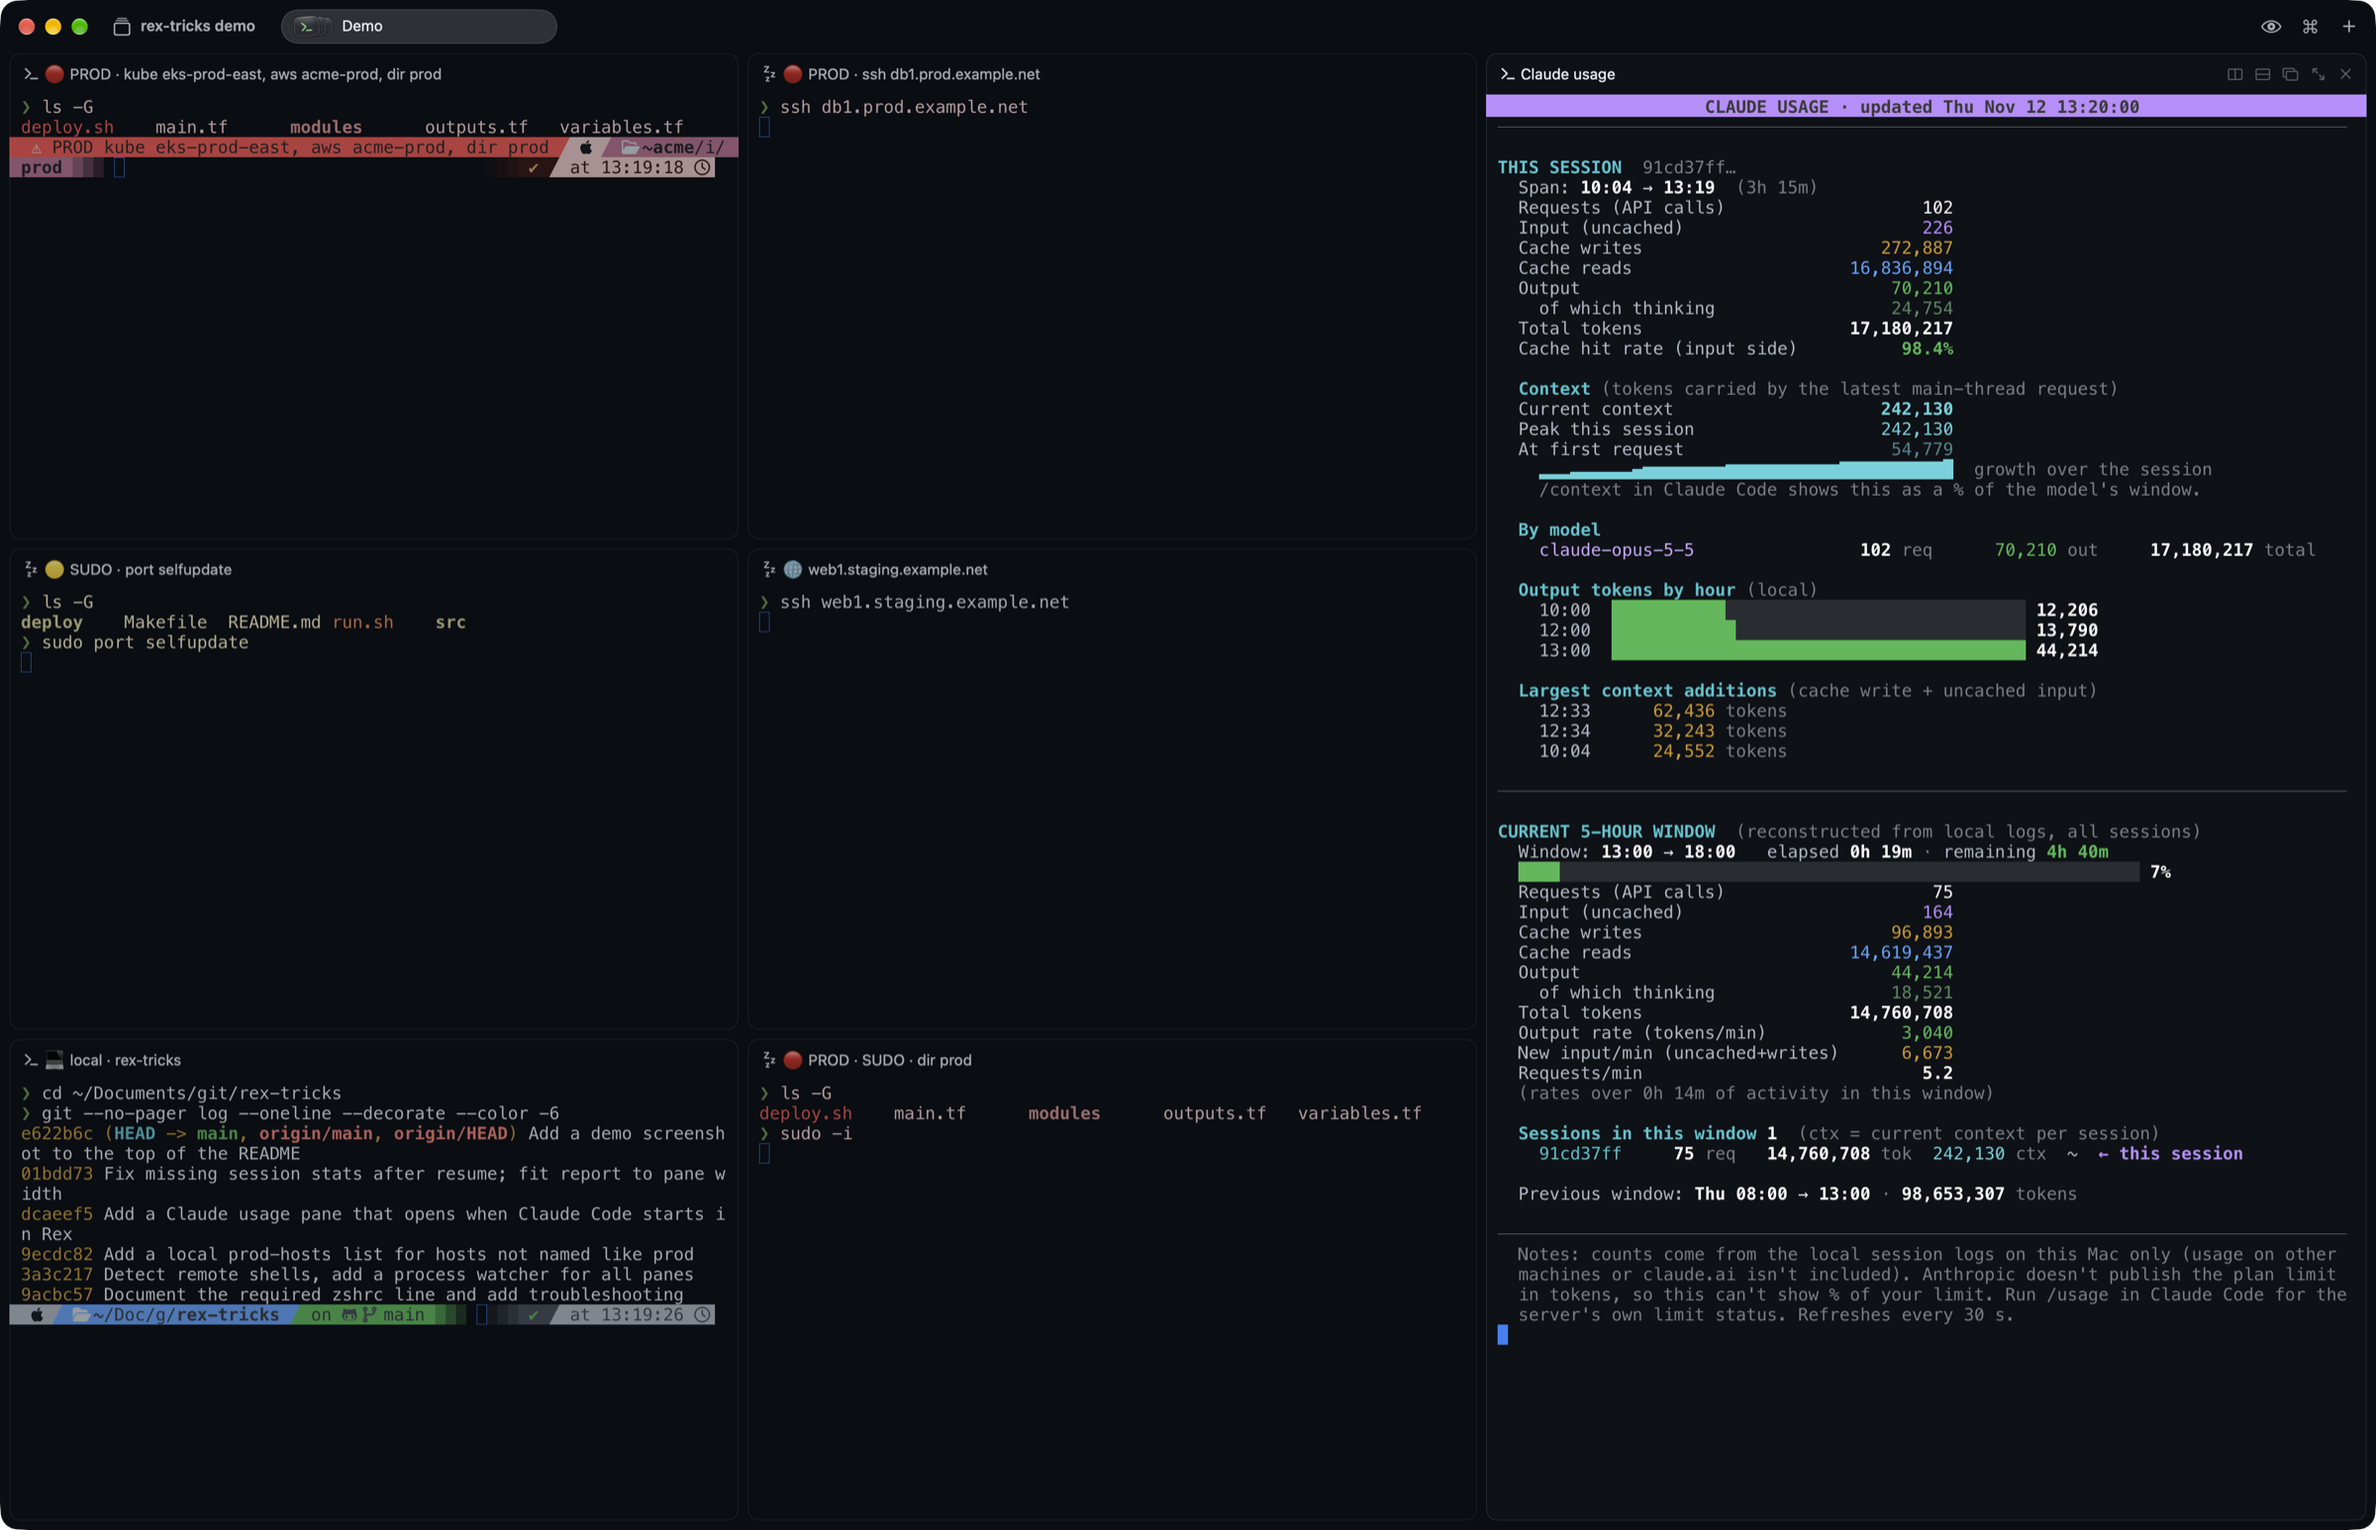
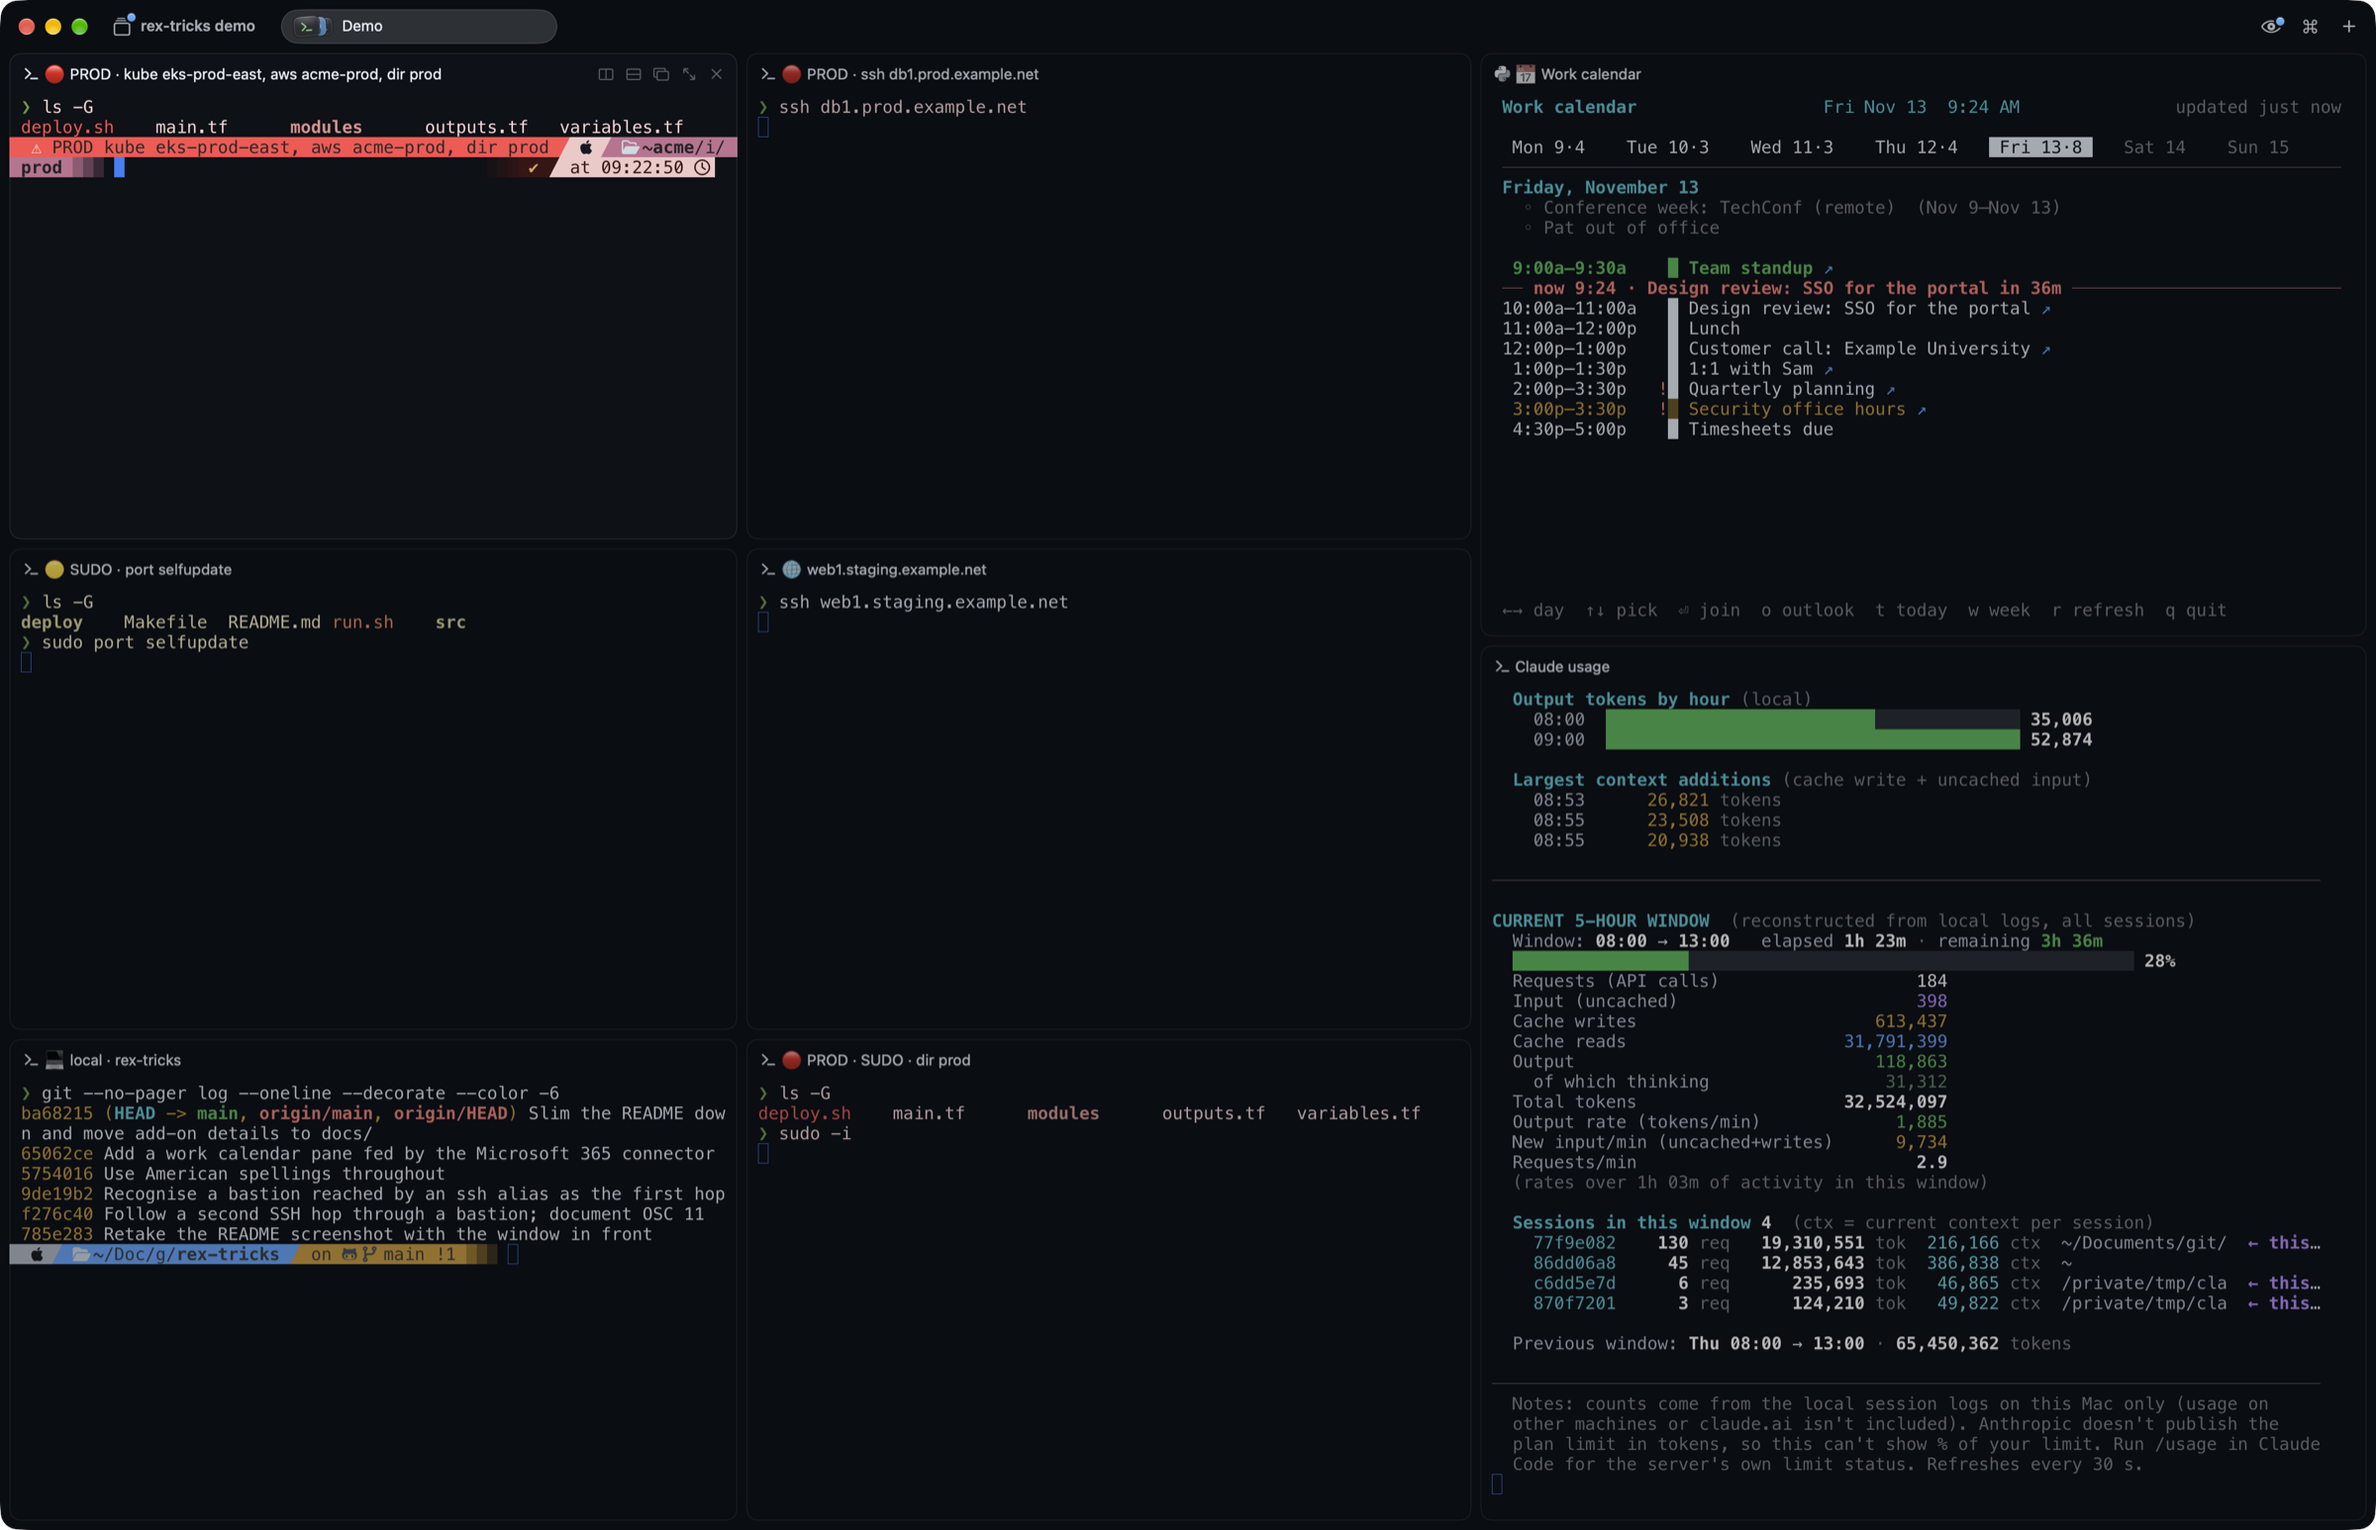
Retake the demo screenshot with the work calendar pane
The right-hand column now shows the work calendar above the Claude usage
pane, as the SessionStart hook arranges them. The calendar runs with a new
--demo option that shows made-up meetings and never fetches, so no real
calendar data ends up in the public screenshot.

diff --git a/work-calendar/workcal.py b/work-calendar/workcal.py
@@ -5,6 +5,7 @@ Usage:
   workcal.py                     interactive calendar (curses)
   workcal.py --fetch [MONDAY]    fetch one week (default: this week), print the events as JSON
   workcal.py --agenda [DATE]     print one day's agenda as plain text and exit
+  workcal.py --demo              interactive calendar with made-up events (no fetching), for screenshots
 
 No program outside Claude can call a claude.ai connector, so a fetch runs a headless
 `claude -p`. That run can use only the connector's outlook_calendar_search tool (all
@@ -268,6 +269,44 @@ def print_agenda(day):
         print(f"  {(hm(e['s']) + '–' + hm(e['e']).strip()):<14} {MARK.get(e['showAs'], ' ')} {e['subject']}{x}")
 
 
+
+# ---------------------------------------------------------------- demo data
+
+DEMO = False
+
+# (weekday, start, minutes, subject, showAs, link?) — made-up events for screenshots.
+DEMO_EVENTS = [
+    (0, "09:00", 30, "Team standup", "busy", True), (0, "11:00", 60, "Lunch", "busy", False),
+    (0, "13:00", 60, "Sprint planning", "busy", True), (0, "15:00", 30, "1:1 with Alex", "busy", True),
+    (1, "09:00", 30, "Team standup", "busy", True), (1, "10:00", 90, "Architecture review", "busy", True),
+    (1, "14:00", 60, "Vendor demo: log pipeline", "tentative", True),
+    (2, "09:00", 30, "Team standup", "busy", True), (2, "12:00", 60, "Lunch & learn: OpenTofu", "busy", True),
+    (2, "15:00", 120, "Focus time", "free", False),
+    (3, "09:00", 30, "Team standup", "busy", True), (3, "11:00", 60, "Lunch", "busy", False),
+    (3, "13:30", 60, "Incident review: DNS outage", "busy", True), (3, "16:00", 30, "Release go/no-go", "busy", True),
+    (4, "09:00", 30, "Team standup", "busy", True), (4, "10:00", 60, "Design review: SSO for the portal", "busy", True),
+    (4, "11:00", 60, "Lunch", "busy", False), (4, "12:00", 60, "Customer call: Example University", "busy", True),
+    (4, "13:00", 30, "1:1 with Sam", "busy", True), (4, "14:00", 90, "Quarterly planning", "busy", True),
+    (4, "15:00", 30, "Security office hours", "tentative", True), (4, "16:30", 30, "Timesheets due", "busy", False),
+]
+
+
+def demo_week(mon):
+    evs = []
+    for n, (wd, hhmm, mins, subj, show, link) in enumerate(DEMO_EVENTS):
+        s = datetime.combine(mon + timedelta(days=wd), datetime.strptime(hhmm, "%H:%M").time())
+        evs.append({"id": f"demo{n}", "subject": subj, "start": s.isoformat(),
+                    "end": (s + timedelta(minutes=mins)).isoformat(), "allDay": False, "showAs": show,
+                    "cancelled": False, "location": "", "link": f"https://example.zoom.us/j/{1000 + n}" if link else "",
+                    "webLink": "", "organizer": "Example Organizer", "isOrganizer": False, "attendees": 6 if link else 0})
+    for d0, d1, subj, show in [(0, 5, "Conference week: TechConf (remote)", "free"), (4, 5, "Pat out of office", "free")]:
+        evs.append({"id": subj, "subject": subj, "start": datetime.combine(mon + timedelta(days=d0), datetime.min.time()).isoformat(),
+                    "end": datetime.combine(mon + timedelta(days=d1), datetime.min.time()).isoformat(), "allDay": True,
+                    "showAs": show, "cancelled": False, "location": "", "link": "", "webLink": "", "organizer": "",
+                    "isOrganizer": True, "attendees": 0})
+    return {"week": mon.isoformat(), "fetched": time.time(), "events": evs}
+
+
 # ---------------------------------------------------------------- curses UI
 
 class App:
@@ -306,6 +345,9 @@ class App:
 
     # data -------------------------------------------------------------
     def ensure(self, mon, force=False):
+        if DEMO:
+            self.weeks.setdefault(mon, demo_week(mon))
+            return
         with self.lock:
             if mon in self.fetching:
                 return
@@ -594,6 +636,9 @@ def main():
     if args[:1] == ["--agenda"]:
         print_agenda(date.fromisoformat(args[1]) if len(args) > 1 else date.today())
         return
+    global DEMO
+    if args[:1] == ["--demo"]:
+        DEMO, args = True, args[1:]
     if args:
         print(__doc__.strip())
         sys.exit(2)

diff --git a/README.md b/README.md
@@ -2,9 +2,9 @@
 
 Small add-ons for the [Rex](https://www.superlogical.com/rex/docs) terminal on macOS.
 
-![A Rex window with six context-coded panes and the Claude usage pane. Pane labels read: PROD · kube eks-prod-east, aws acme-prod, dir prod (with the red PROD prompt segment); PROD · ssh db1.prod.example.net; SUDO · port selfupdate; web1.staging.example.net (remote); local · rex-tricks; and PROD · SUDO · dir prod. The right-hand pane shows the Claude usage report.](docs/demo.png)
+![A Rex window with six context-coded panes, the work calendar pane and the Claude usage pane. Pane labels read: PROD · kube eks-prod-east, aws acme-prod, dir prod (with the red PROD prompt segment); PROD · ssh db1.prod.example.net; SUDO · port selfupdate; web1.staging.example.net (remote); local · rex-tricks; and PROD · SUDO · dir prod. On the right, the work calendar shows a day of sample meetings above the Claude usage report.](docs/demo.png)
 
-*Left to right, top to bottom: a production kube/AWS/directory context with red text and the `⚠ PROD` prompt segment, SSH to a production host, a `sudo` command, SSH to a non-production host, an ordinary local pane, and `sudo` inside a production directory. On the right is the [Claude usage pane](docs/claude-usage-pane.md). Host names are examples.*
+*Left to right, top to bottom: a production kube/AWS/directory context with red text and the `⚠ PROD` prompt segment, SSH to a production host, a `sudo` command, SSH to a non-production host, an ordinary local pane, and `sudo` inside a production directory. On the right are the [work calendar](docs/work-calendar.md), showing made-up meetings from its `--demo` mode, and the [Claude usage pane](docs/claude-usage-pane.md) below it. Host names are examples.*
 
 ## Add-ons
 

diff --git a/docs/work-calendar.md b/docs/work-calendar.md
@@ -56,7 +56,7 @@ workcal-pane            # open the calendar to the right
 workcal-pane --below    # or below
 ```
 
-`workcal` runs the calendar in the current terminal. `workcal --agenda [YYYY-MM-DD]` prints one day as plain text, and `workcal --fetch [YYYY-MM-DD]` fetches the week containing that date and prints it as JSON, which is useful for checking the connector. `work-calendar/install.sh uninstall` removes the links and the cache.
+`workcal` runs the calendar in the current terminal. `workcal --agenda [YYYY-MM-DD]` prints one day as plain text, and `workcal --fetch [YYYY-MM-DD]` fetches the week containing that date and prints it as JSON, which is useful for checking the connector. `workcal --demo` shows a week of made-up meetings and never fetches. Use it for screenshots, so your real calendar stays out of them. `work-calendar/install.sh uninstall` removes the links and the cache.
 
 | Variable | Default | Effect |
 |---|---|---|
